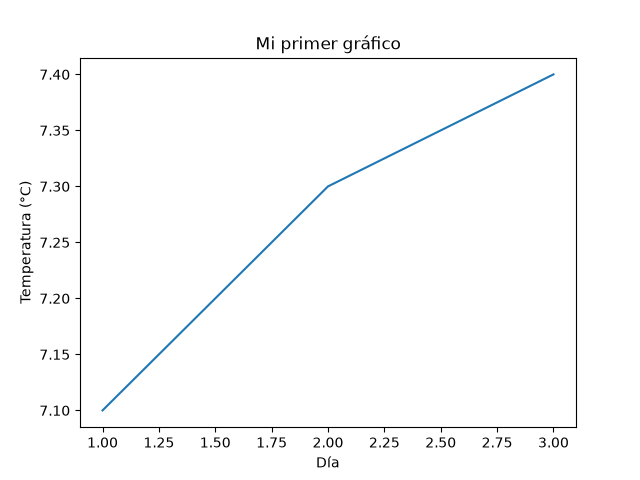
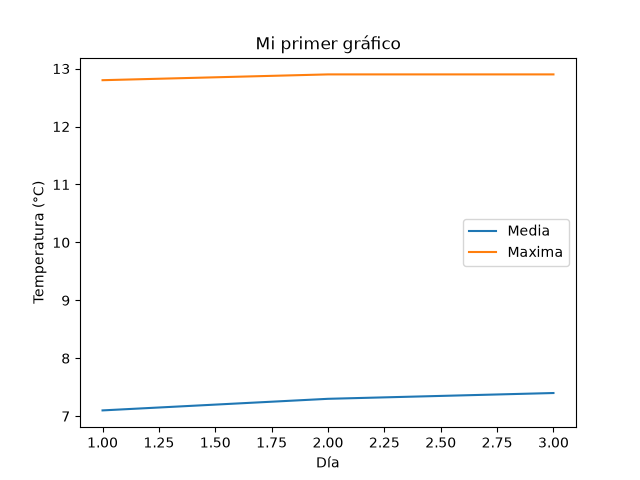
Empezando fase 9

diff --git a/meteorologia.py b/meteorologia.py
@@ -128,8 +128,8 @@ print("Fríos:", tipo_dia.count("frío"))
 print("Templados:", tipo_dia.count("templado"))
 print("Cálidos:", tipo_dia.count("cálido"))
 
-# Fase 6 -> Relaciona cada valor con su fecha
-# Mostrar un registro completo
+print("\n--- Fase 6 -> Relaciona cada valor con su fecha ---")
+print("\n--- Mostrar un registro completo ---")
 registros = []
 for f, med, mx, mn in zip(diarios["time"], diarios["temperature_2m_mean"],
                           diarios["temperature_2m_max"], diarios["temperature_2m_min"]):
@@ -138,10 +138,12 @@ for f, med, mx, mn in zip(diarios["time"], diarios["temperature_2m_mean"],
 print("Número de registros:", len(registros))
 print("Primer registro:", registros[0])
 print("Mínima del día 1:", registros[0]["minima"])
-# Localizar el día con la media más alta
+
+print("\n--- Localizar el día con la media más alta ---")
 dia_mas_calido = max(registros, key=lambda r: r["media"])
 print("Día con la media más alta:", dia_mas_calido)
-# Amplitud térmica diaria
+
+print("\n--- Amplitud térmica diaria ---")
 for r in registros:
     r["amplitud"] = round(r["maxima"] - r["minima"], 1)
 
@@ -149,12 +151,12 @@ print("Primer registro con amplitud:", registros[0])
 
 print("\n--- Fase 7 -> Analiza el periodo ---")
 def mostrar_estadistica(nombre, lista):
-    print("---", nombre, "---")
+    print("\n---", nombre, "---")
     media = sum(lista) / len(lista)
-    print("Media:", round(media, 1))
+    print("Media:", round(media, 2))
     print("Maxima:", max(lista))
     print("Minima:", min(lista))
-    print("Rango:", round(max(lista) - min(lista), 1))
+    print("Rango:", round(max(lista) - min(lista), 2))
 
     ordenadas = sorted(lista)
     centro = len(ordenadas) // 2
@@ -181,13 +183,13 @@ mostrar_estadistica("Mínimas", diarios["temperature_2m_min"])
 # Las mínimas son las que más varían (desviación típica 3.17), porque las noches despejadas se enfrían mucho y las nubladas no tanto.
 
 print("\n--- Fase 8 -> Estudia la evolución temporal ---")
-print("Muestra las temperaturas medias junto con sus fechas")
+print("\n--- Muestra las temperaturas medias junto con sus fechas ---")
 for r in registros:
     print(r["fecha"], r["media"])
 # Recorro las fichas de "registros" con un for y muestro la fecha
 # Recorro las fichas de "registros" con un for y muestro la fecha y la temperatura media de cada día, para ver cómo cambia a lo largo del mes.
 
-print("\nFiltra la primera semana y la segunda quincena")
+print("\n--- Filtra la primera semana y la segunda quincena ---")
 primera_semana = registros[0:7]
 segunda_quincena = registros[15:]
 print("Días de la primera semana:", len(primera_semana))
@@ -195,7 +197,7 @@ print("Días de la segunda quincena:", len(segunda_quincena))
 print("Empieza:", segunda_quincena[0]["fecha"], "- Termina:", segunda_quincena[-1]["fecha"])
 # Con slicing separo partes del mes. La primera semana son los índices 0 a 6 (días 1 a 7) y la segunda quincena empieza en el índice 15 (día 16) y llega hasta el final: 31 días en total.
 
-print("\nCalcula las variaciones entre días consecutivos e identifica el mayor aumento y descenso")
+print("\n--- Calcula las variaciones entre días consecutivos e identifica el mayor aumento y descenso ---")
 for i in range(1, len(registros)):
     registros[i]["variacion"] = round(registros[i]["media"] - registros[i - 1]["media"], 1)
 
@@ -212,7 +214,7 @@ print("Mayor bajada:", mayor_bajada["fecha"], mayor_bajada["variacion"])
 # La mayor subida fue el 21 (+5.3 °C) y la mayor bajada el 2 (-5.7 °C).
 
 
-print("\nCalcula una media móvil de tres días y compárala con los valores originales")
+print("\n--- Calcula una media móvil de tres días y compárala con los valores originales ---")
 medias_moviles = [round(sum(temperaturas[i:i+3]) / 3, 2) for i in range(len(temperaturas) - 2)]
 print("Media móvil (3 días):", medias_moviles)
 print("Número de ventanas:", len(medias_moviles))
@@ -220,7 +222,7 @@ print("Número de ventanas:", len(medias_moviles))
 # La "ventana" de 3 días se mueve de uno en uno, así que hay 31 - 2 = 29 ventanas.
 # (Aquí va tu conclusión de la rampa: "La media móvil cambia de forma más suave...")
 
-print("\nDivide el periodo en semanas y calcula la media de cada una")
+print("\n--- Divide el periodo en semanas y calcula la media de cada una ---")
 for i in range(0, len(temperaturas), 7):
     semana = temperaturas[i:i+7]
     media_semana = sum(semana) / len(semana)
